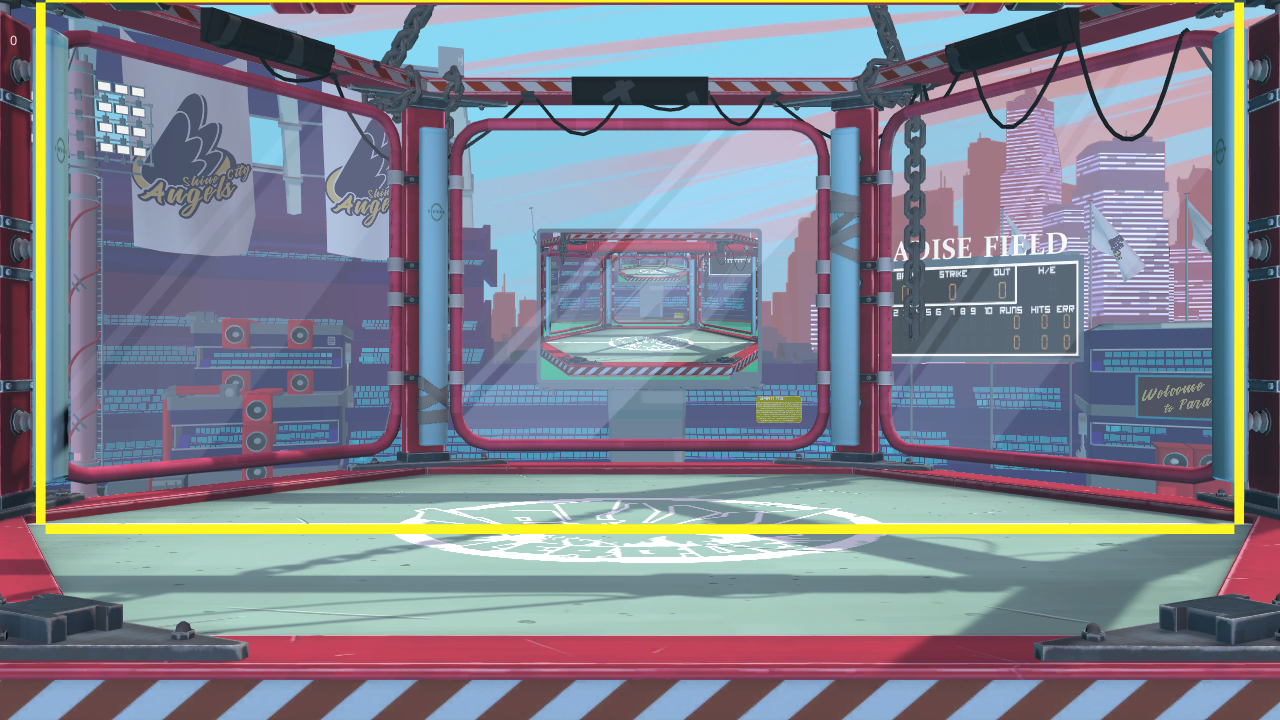
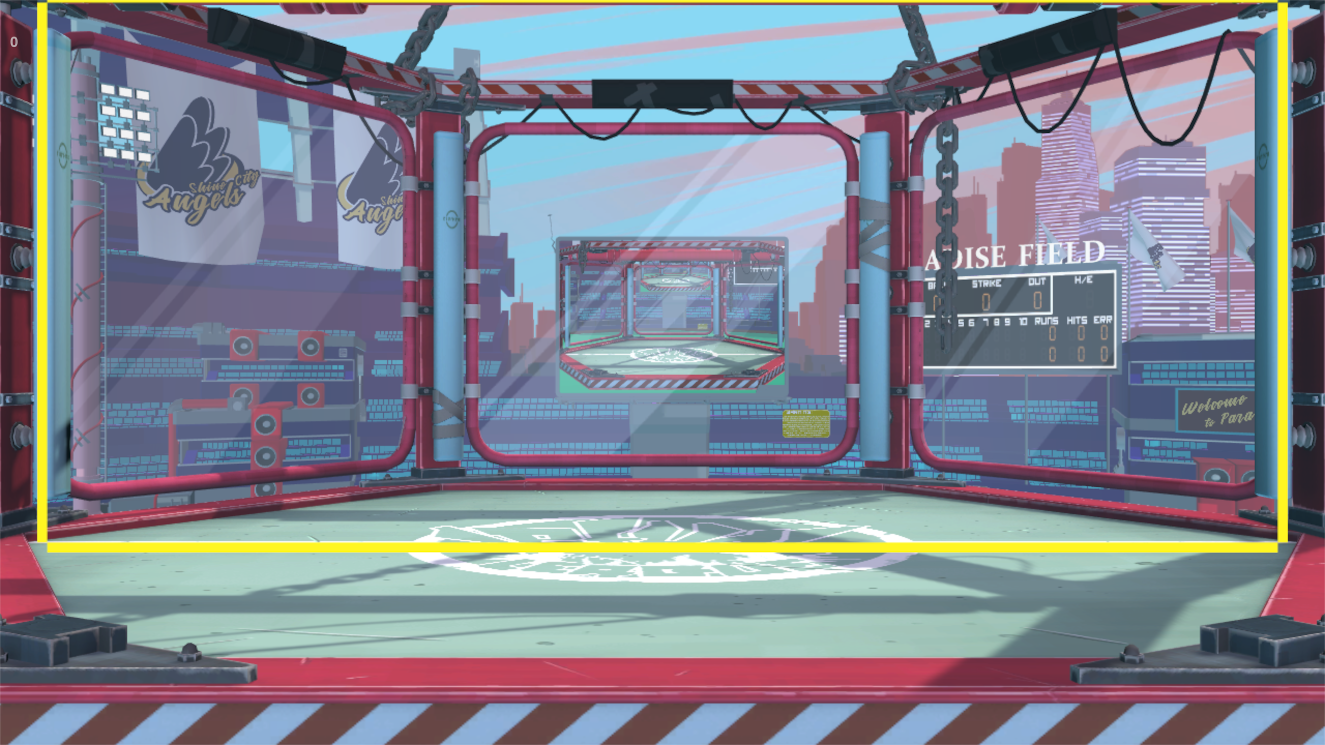
fix bounce angle calculation by taking the ball hitbox into account

diff --git a/main.js b/main.js
@@ -18,49 +18,53 @@ var strokeWidthInner = 2
 var labelFontSize = 20
 var guideColor = 'white'
 
+
+var ballRadius = 10
+var ballDiameter = 2 * ballRadius
+
 /**
  * names map to stage images in assets/stages
  */
 var stageJSON = {
   "Outskirts": {
-    canvasSize: [1198, 492],
-    canvasOffset: [41, 32]
+    canvasSize: [1240, 510],
+    canvasOffset: [43, 33]
   },
   "Stadium": {
-    canvasSize: [1188, 521],
-    canvasOffset: [46, 3]
+    canvasSize: [1230, 540],
+    canvasOffset: [48, 4]
   },
   "Desert": {
-    canvasSize: [1092, 492],
-    canvasOffset: [94, 32]
+    canvasSize: [1130, 510],
+    canvasOffset: [98, 33]
   },
   "Elevator": {
-    canvasSize: [1280, 455],
-    canvasOffset: [0, 79]
+    canvasSize: [1492, 522],
+    canvasOffset: [0, 92]
   },
   "Factory": {
-    canvasSize: [1242, 481],
-    canvasOffset: [19, 51]
+    canvasSize: [1400, 542],
+    canvasOffset: [21, 58]
   },
   "Streets": {
-    canvasSize: [1275, 497],
-    canvasOffset: [3, 27]
+    canvasSize: [1320, 515],
+    canvasOffset: [3, 29]
   },
   "Sewer": {
-    canvasSize: [1198, 492],
-    canvasOffset: [41, 32]
+    canvasSize: [1240, 510],
+    canvasOffset: [43, 33]
   },
   "Pool": {
-    canvasSize: [1168, 525],
-    canvasOffset: [56, 0]
+    canvasSize: [1210, 575],
+    canvasOffset: [58, 0]
   },
   "Subway": {
-    canvasSize: [1014, 492],
-    canvasOffset: [133, 32]
+    canvasSize: [1050, 510],
+    canvasOffset: [138, 33]
   },
   "Room": {
-    canvasSize: [1063, 531],
-    canvasOffset: [108, 19]
+    canvasSize: [1100, 550],
+    canvasOffset: [113, 20]
   }
 }
 
@@ -486,6 +490,7 @@ var angleAlias = {
 
 var canvas = document.getElementById('myCanvas')
 var stageBounds, startX, startY
+var stageRect
 var offsetX = canvas.getBoundingClientRect().left;
 var offsetY = canvas.getBoundingClientRect().top;
 var dragok = false;
@@ -601,15 +606,15 @@ function drawAngle(properties) {
       var oldStart = start.clone()
 
       // move start to opposite wall
-      if(start.x >= canvas.getBoundingClientRect().width - 1)
-        start.x = 1;
-      else if(start.x <= 1)
-        start.x = canvas.getBoundingClientRect().width
+      if(start.x >= stageRect.x + stageRect.width - 1)
+        start.x = stageRect.x;
+      else if(start.x <= stageRect.x + 1)
+        start.x = stageRect.x + stageRect.width
 
-      if(start.y >= canvas.getBoundingClientRect().height - 1)
-        start.y = 0
-      else if(start.y <= 1)
-        start.y = canvas.getBoundingClientRect().height
+      if(start.y >= stageRect.y + stageRect.height - 1)
+        start.y = stageRect.y
+      else if(start.y <= stageRect.y + 1)
+        start.y = stageRect.y + stageRect.height
 
       if(guidesOn) {
         // warp indicator
@@ -628,7 +633,7 @@ function drawAngle(properties) {
       // on all reflections
       degrees *= -1
       // on side reflections only
-      if(start.x >= canvas.getBoundingClientRect().width - 1 || start.x <= 1)
+      if(start.x >= stageRect.x + stageRect.width - 1 || start.x <= stageRect.x + 1)
         degrees += 180
     }
 
@@ -837,14 +842,8 @@ $('document').ready(function() {
     paper.view.viewSize.width = stage.canvasSize[0]
     paper.view.viewSize.height = stage.canvasSize[1]
 
-    stageBounds = new Path()
-    stageBounds.add(
-      new Point(0, 0),
-      new Point(canvas.getBoundingClientRect().width, 0),
-      new Point(canvas.getBoundingClientRect().width, canvas.getBoundingClientRect().height),
-      new Point(0, canvas.getBoundingClientRect().height)
-    )
-    stageBounds.closed = true
+    stageRect = new Rectangle(new Point(ballRadius, ballRadius), new Size(stage.canvasSize[0] - ballDiameter, stage.canvasSize[1] - ballDiameter))
+    stageBounds = new Path.Rectangle(stageRect)
 
     $('#myCanvas').css('left', stage.canvasOffset[0])
     $('#myCanvas').css('top', stage.canvasOffset[1])

diff --git a/style.css b/style.css
@@ -33,9 +33,10 @@ body {
     float: left;
     position: relative;
     display: block;
-    width: 1280px;
-    height: 600px;
+    width: 1492px;
+    height: 650px;
     margin: 0 5px;
+    background-repeat: no-repeat;
     /*
     background: url('assets/stages/Desolace.png') top center #fff;
     */

diff --git a/index.html b/index.html
@@ -40,7 +40,7 @@
 	</ul>
 </div>
 <div id="wrapper">
-	<canvas id="myCanvas" width=1200 height=490></canvas>
+	<canvas id="myCanvas" width=1450 height=580></canvas>
 </div>
 </body>
 </html>
